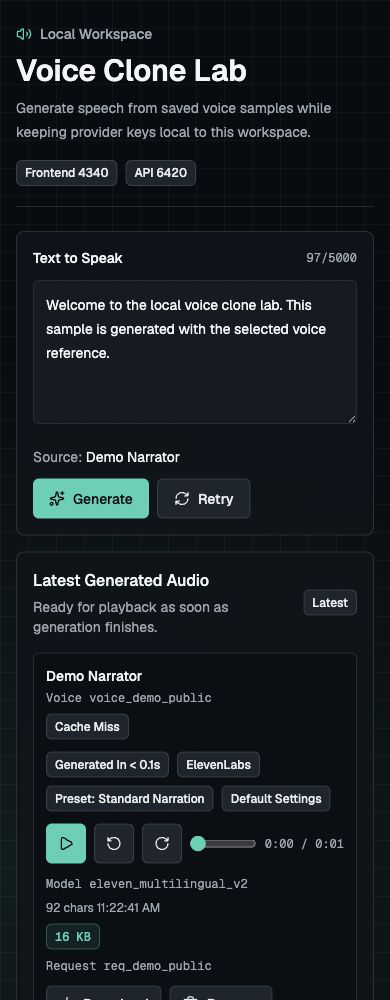
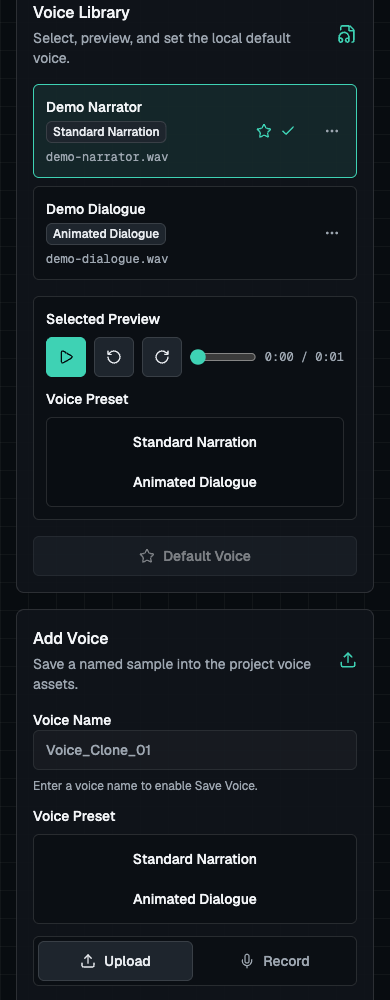
Refresh public voice studio screenshots

diff --git a/docs/assets/README.md b/docs/assets/README.md
@@ -8,8 +8,8 @@ Follow the canonical [Public Media Guidelines](../PUBLIC_MEDIA.md) before adding
 
 ## Current Assets
 
-- `voice-studio-desktop.png`: desktop capture of the Voice Studio with mocked demo data, 1440 x 1000, about 420 KB.
-- `voice-studio-mobile.png`: mobile capture of the same public-safe demo state, 390 x 1000, about 184 KB.
+- `voice-studio-desktop.png`: desktop capture of the Voice Studio with mocked demo data and voice preset controls, 1440 x 1000, about 284 KB.
+- `voice-studio-mobile.png`: mobile capture of the same public-safe demo state focused on voice preset controls, 390 x 1000, about 62 KB.
 
 ## Refresh Checklist
 

diff --git a/README.md b/README.md
@@ -2,7 +2,7 @@
 
 Voice Clone Lab is a local-first voice studio for experimenting with provider-backed voice cloning from your own browser. It gives you a small saved voice library, text-to-speech generation, model selection, cost/quota visibility, voice tuning controls, playback, downloads, and a browser-local provider key manager.
 
-![Screenshot of the Voice Clone Lab desktop Voice Studio showing text input, Demo Narrator and Demo Dialogue in the voice library, generated audio playback, Voice Tuning, Provider Keys, and Cost & Quota panels.](docs/assets/voice-studio-desktop.png)
+![Screenshot of the Voice Clone Lab desktop Voice Studio showing text input, Demo Narrator and Demo Dialogue with voice preset badges, generated audio playback, Voice Tuning, and Voice Preset assignment controls.](docs/assets/voice-studio-desktop.png)
 
 Public-safe demo screenshot: this capture uses mocked data and does not include real API keys, voice samples, generated audio files, or account details. A mobile capture is available in [docs/assets/voice-studio-mobile.png](docs/assets/voice-studio-mobile.png).
 